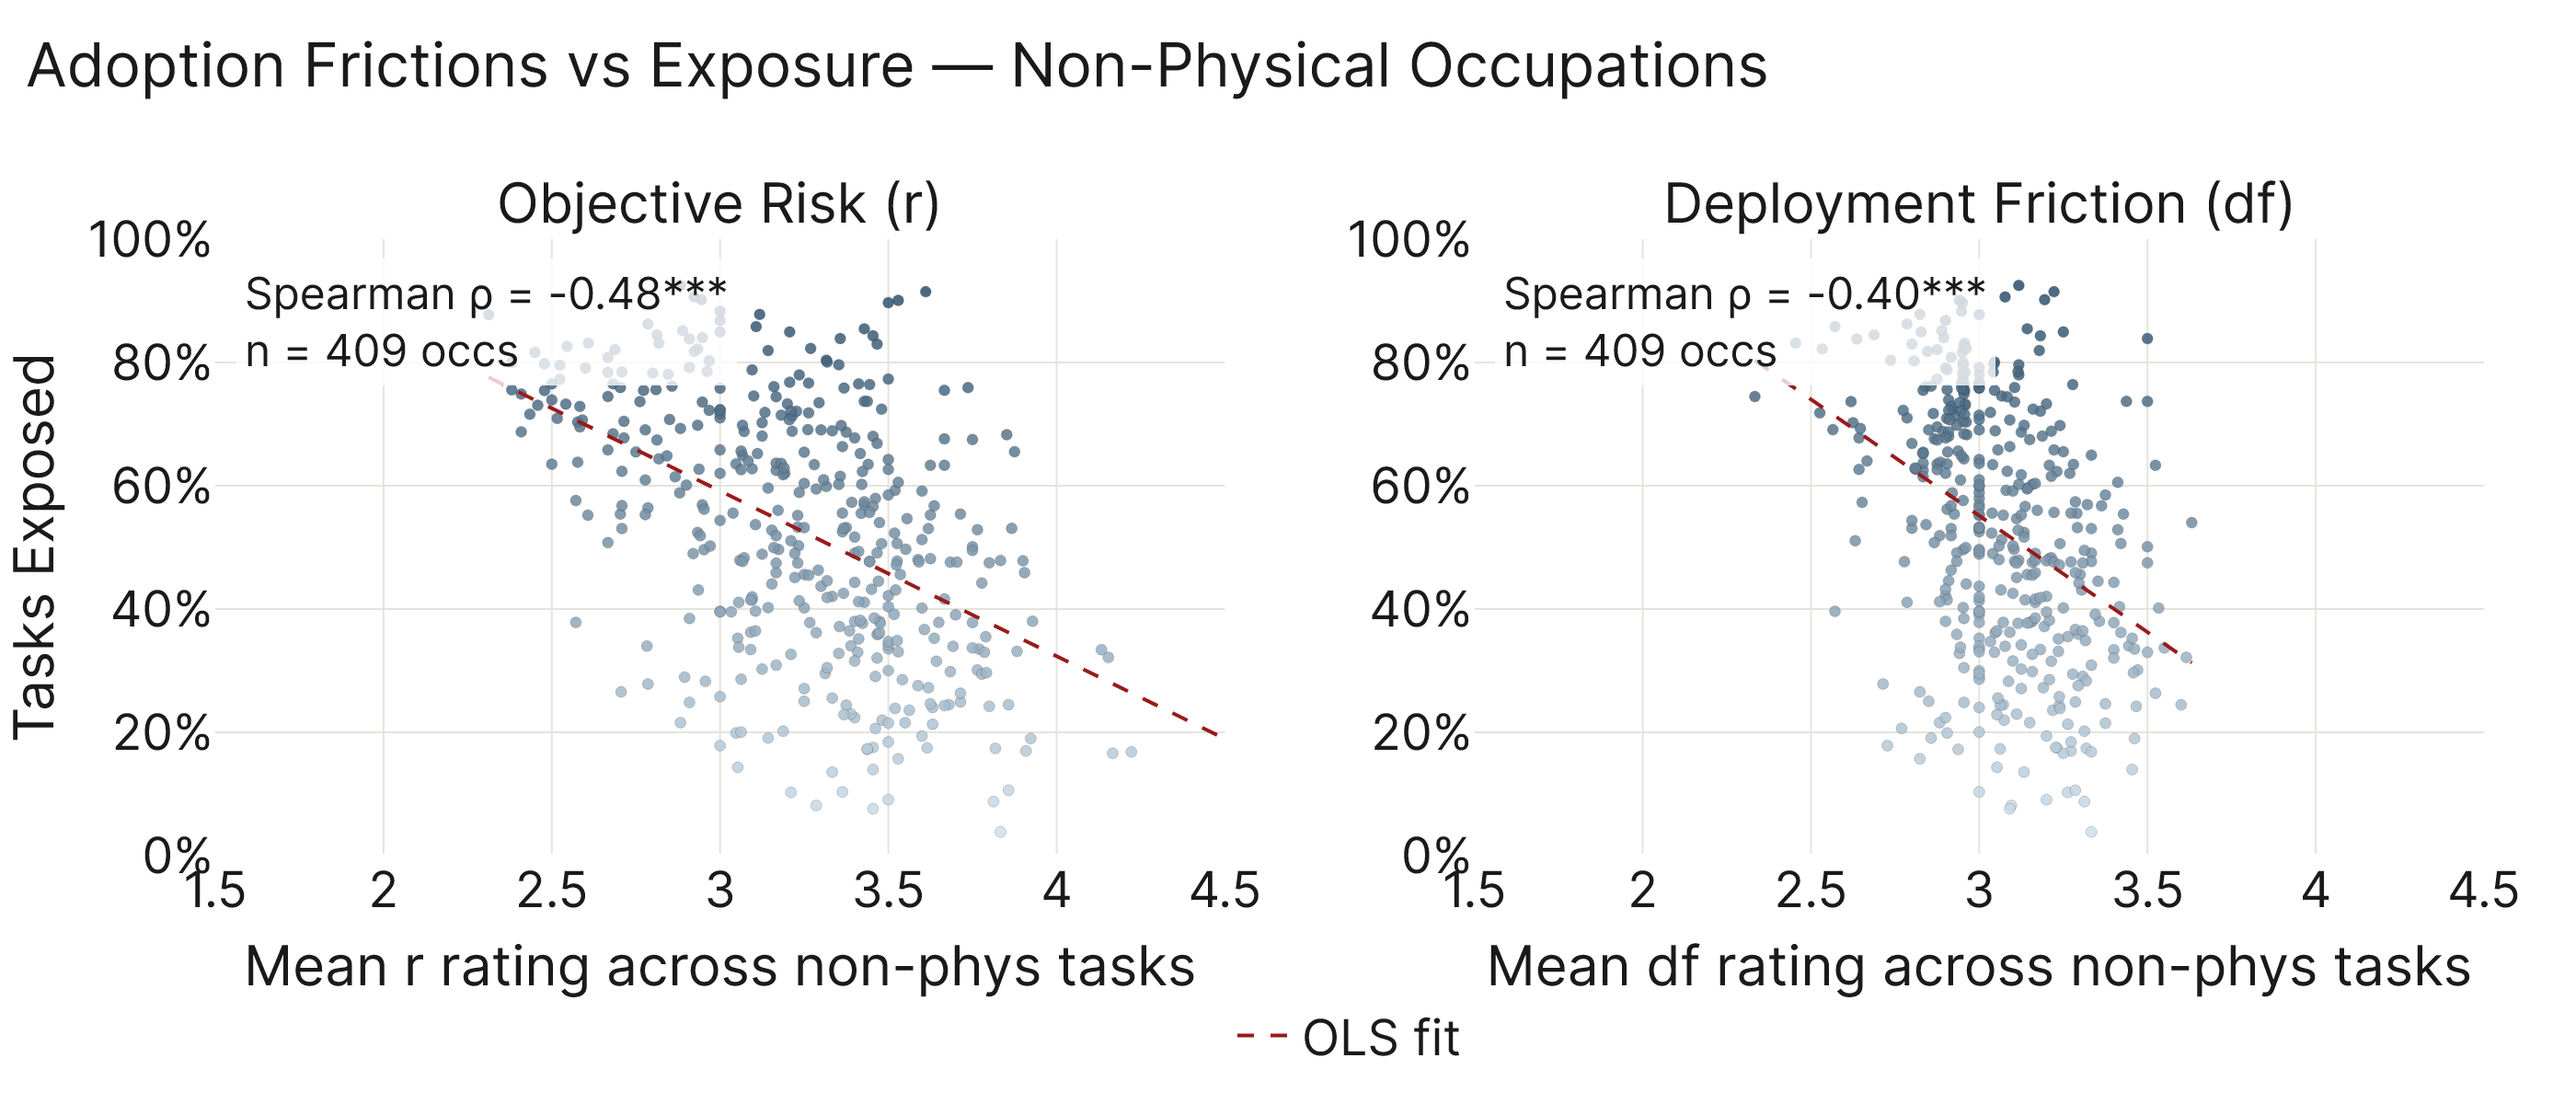
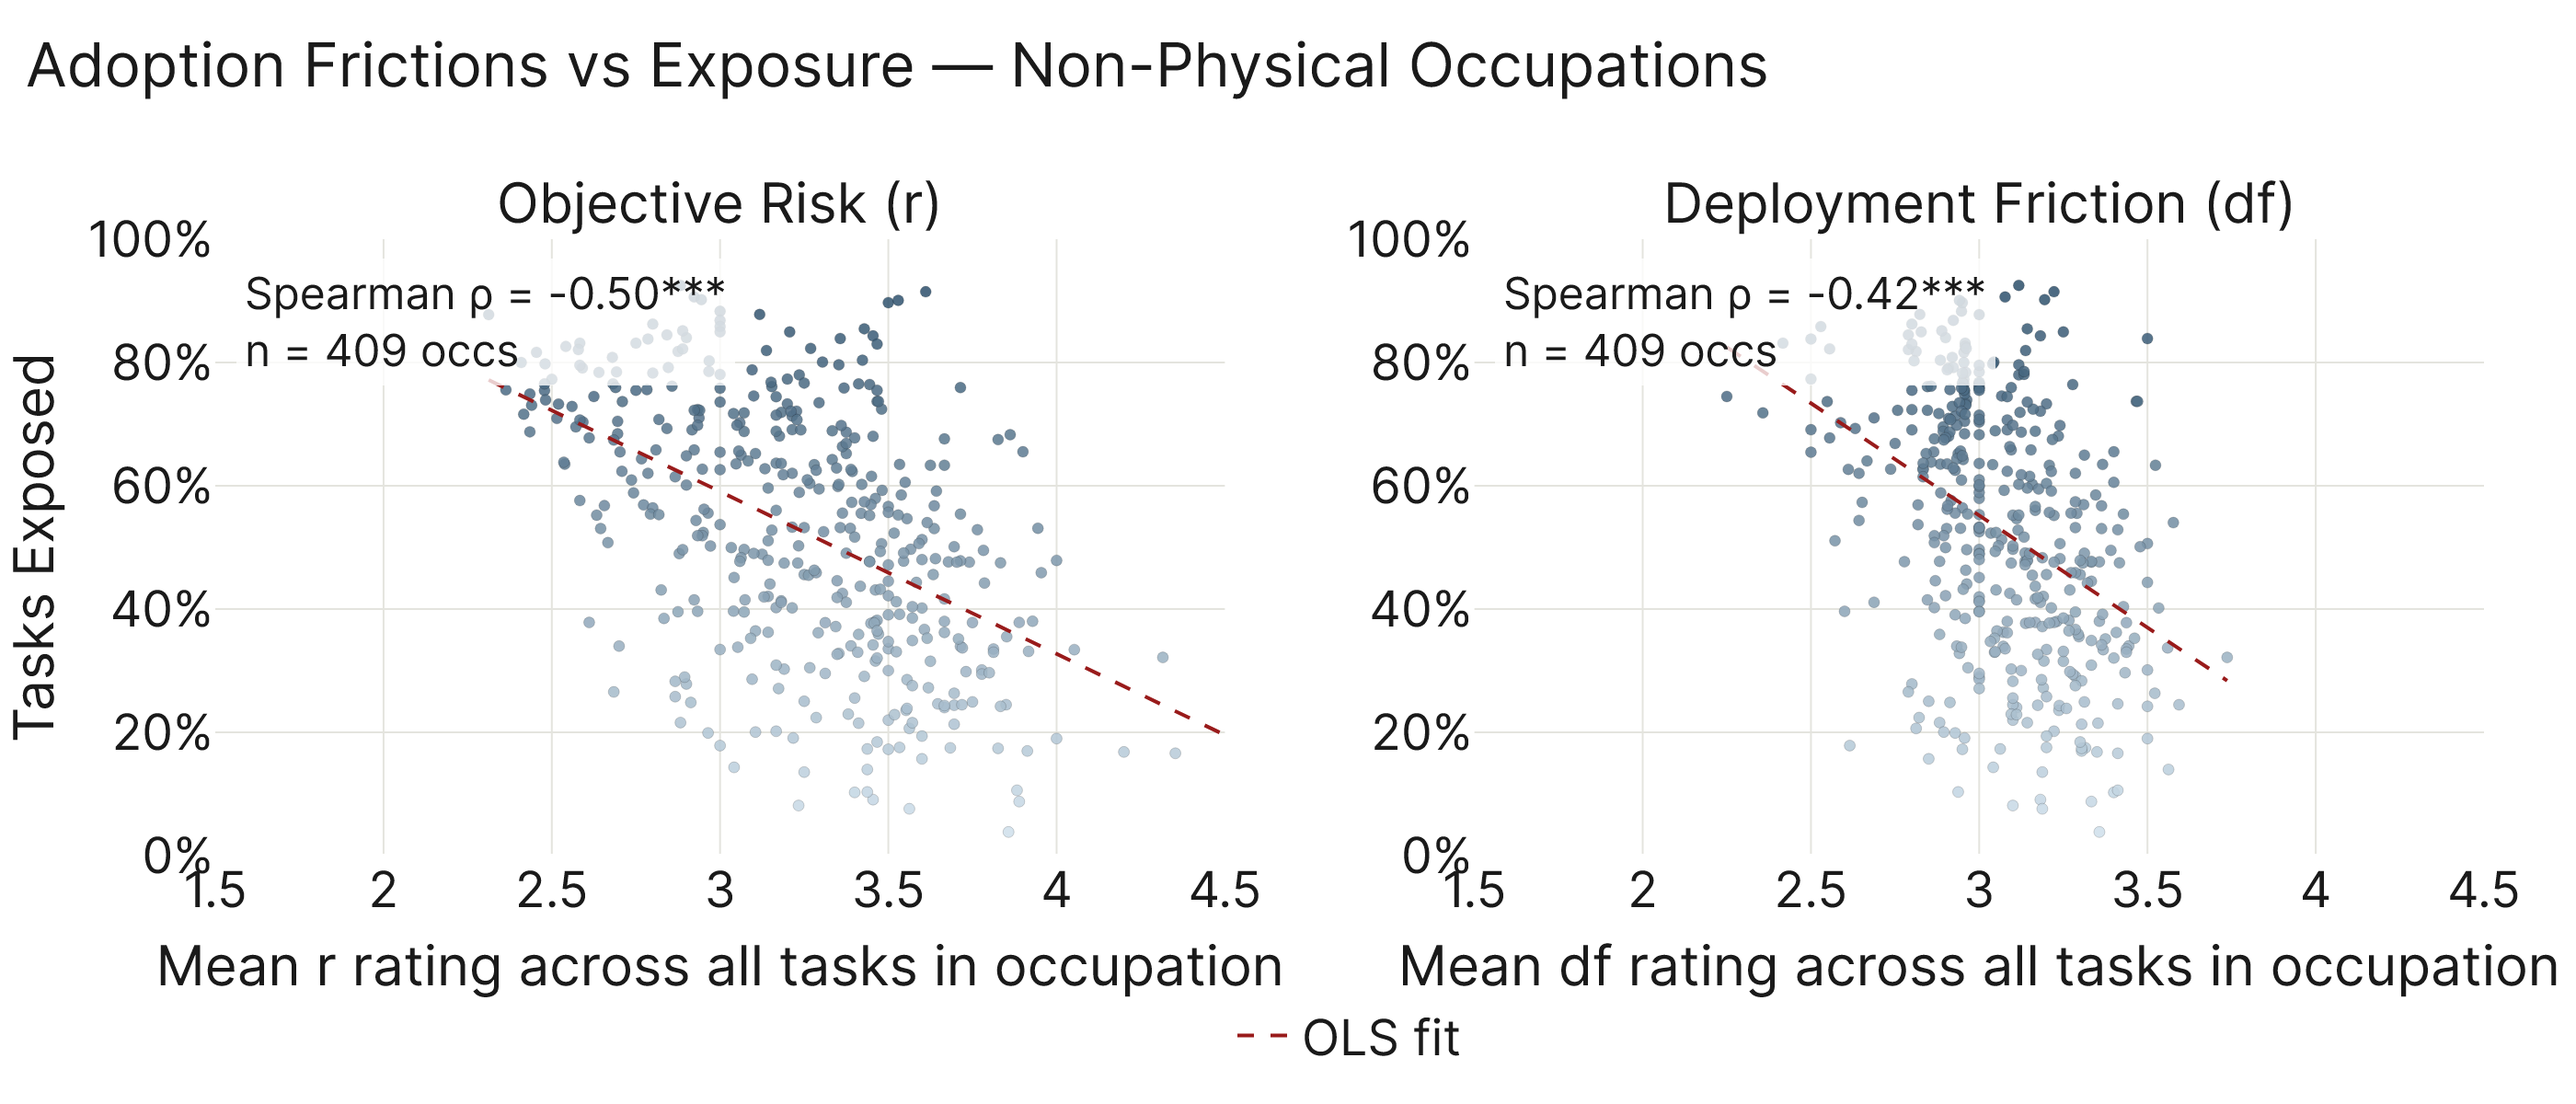
appendix: drop task-level phys filter in adoption_friction_scatter
The non-physical restriction already lives at the occupation level
(pct_physical < 33%). Filtering tasks too was a redundant belt-and-
suspenders. Property means are now taken across all tasks of each
non-phys occupation, matching how the y-axis exposure metric
aggregates within an occupation.

Signal is slightly stronger: rho = -0.50*** (r) and -0.42*** (df),
both n = 409, p < .001 (was -0.48 / -0.40).

X-axis title updated to "Mean r/df rating across all tasks in
occupation" to reflect the change.

diff --git a/analysis/paper/results/appendix/run.py b/analysis/paper/results/appendix/run.py
@@ -3413,14 +3413,16 @@ def build_intensity_drivers(results: Path, figures: Path,
 # whose task load is mostly non-physical (`pct_physical < 33%` — the
 # same cut Part 2 uses for its Non-Physical phys-mix tier). Inside that
 # slice, each occupation contributes one dot: x = unweighted mean
-# rating of the friction property over its non-physical tasks, y = %
-# tasks exposed under all_confirmed. Two panels — left for `r`, right
-# for `df`.
+# rating of the friction property across ALL of that occupation's
+# tasks, y = % tasks exposed under all_confirmed. Two panels — left
+# for `r`, right for `df`. The non-physical restriction lives at the
+# occupation level; no second filter at the task level since these
+# occupations are already >67% non-physical by construction.
 #
 # Why no weighting: weighting by freq×emp concentrates each occ's
 # property mean onto a few high-frequency tasks (often routine office
 # work with mid-range friction), washing the cross-occ variance out.
-# Unweighted preserves the cross-occ signal (ρ ≈ −0.48 for r and −0.41
+# Unweighted preserves the cross-occ signal (ρ ≈ −0.50 for r and −0.42
 # for df at occ level; the major-level rollup within non-phys shows
 # almost nothing — discrimination lives at occupation level here).
 # ─────────────────────────────────────────────────────────────────────────
@@ -3477,16 +3479,18 @@ def build_adoption_friction_scatter(results: Path, figures: Path) -> None:
                        "title_current"]
     )
 
-    # Per-occ unweighted mean of each friction property over the occ's
-    # non-physical tasks. Weighting concentrates the mean on a few
-    # high-frequency tasks and erases the cross-occ variance; keep
-    # unweighted.
-    nonphys_rows = props[~props["physical"].astype(bool)].copy()
+    # Per-occ unweighted mean of each friction property over ALL of the
+    # occupation's tasks. The non-physical restriction lives at the
+    # occupation level above (pct_physical < 33%); double-filtering at
+    # the task level adds nothing since these occupations are already
+    # >67% non-physical by construction. Weighting by freq×emp was
+    # tried and concentrates the mean on a few high-frequency tasks,
+    # erasing the cross-occ variance; keep unweighted.
     occ_means = (
-        nonphys_rows.groupby("title_current")
+        props.groupby("title_current")
         .agg(r=("r", "mean"),
              df=("df", "mean"),
-             n_nonphys_tasks=("r", "count"))
+             n_tasks=("r", "count"))
         .reset_index()
     )
 
@@ -3558,7 +3562,7 @@ def build_adoption_friction_scatter(results: Path, figures: Path) -> None:
                 customdata=plot_df["title_current"],
                 hovertemplate=(
                     "<b>%{customdata}</b><br>"
-                    f"mean {code} (non-phys tasks): %{{x:.2f}}<br>"
+                    f"mean {code} (all tasks): %{{x:.2f}}<br>"
                     "% tasks exposed: %{y:.1f}%<extra></extra>"
                 ),
                 showlegend=False,
@@ -3598,7 +3602,7 @@ def build_adoption_friction_scatter(results: Path, figures: Path) -> None:
     for col_idx, (code, _) in enumerate(ADOPTION_FRICTION_PROPS, start=1):
         fig.update_xaxes(
             title=dict(
-                text=f"Mean {code} rating across non-phys tasks",
+                text=f"Mean {code} rating across all tasks in occupation",
                 font=dict(size=px["axis_title"], family=FONT_FAMILY),
             ),
             range=[1.5, 4.5], dtick=0.5,

diff --git a/analysis/paper/results/appendix/README.md b/analysis/paper/results/appendix/README.md
@@ -15,7 +15,7 @@ Ordered to match the paper's chart flow — correlation, aggregate economy, tren
 - **state_clusters_each_ranked** — companion to Part 3's `state_clusters_map`. Two-panel ranked bar chart with each panel sorted independently: left panel sorts the 51 states by % workforce exposed descending, right panel sorts by % in High AI Exp & <0 Emp Proj occupations descending. Cluster colors (Ward labels from `deepdive_state_clusters.compute_clusters()`) stay consistent across panels — a state's color is the same in both, so the reader can compare its left rank vs. right rank visually. Knowledge-economy states (mid blue) top the left panel but sit near the bottom of the right; the high-vulnerability cluster (dark blue) dominates the top of the right panel and spreads through the middle of the left.
 - **underadoption_gap** — per-major underadoption relative to potential as informed by task exposure. `raw_gap = pct_tasks_affected / ratio_full_pct` (Part 3 intensity model's full-eco share of AI usage), then anchored on Office and Administrative Support so values read as a clean multiple: `gap_ratio = raw_gap / raw_gap[Office and Admin]`. Office sits at x=1 with a dashed median line; majors above 1 are more underadopted than the anchor, below 1 less. Color encodes `pct_tasks_affected` with the same gradient legend as `intensity_anchor_fulleco`. Reads as the companion to that chart — same anchor, same median framing. **Both sides of the gap ratio use `AEI Both 2025 2026-02-12` (AEI-only, eco_2025-rebased, no Microsoft) — see Config below.**
 - **intensity_drivers_{occ,task}_{comp_math,arts_design_ent,life_phys_soc_sci}** — six within-major decompositions of Part 3's `intensity_anchor_fulleco` for the three high-lift majors (Computer/Mathematical, Arts/Design/Entertainment, Life/Phys/Sci). Per occ or task: `lift = (Σ debiased adj_pct / Σ freq×emp) ÷ within-major median ratio`. Bars are top-10 by lift, sorted descending. Color: `pct_tasks_affected` on occ charts (mirrors main body), `auto_aug_mean` on task charts. Outside text on each bar shows `lift× (raw pct)` where raw pct is the un-debiased `pct_normalized` sum. Task charts use the original task statement (with case + punctuation), not `task_normalized`. Median annotation only on occ charts (task charts' long wrapped labels and tight title spacing leave no room above the plot). **Uses `AEI Both 2025 2026-02-12` (no Microsoft) — see Config below.**
-- **adoption_friction_scatter** — two-panel occupation-level scatter testing the Section 3 adoption-layer prediction that risk (`r`) and deployment friction (`df`) discriminate exposure once capability is roughly held constant. Restricted to the ~409 occupations whose unique-task share of physical tasks is `< 33%` (Part 2's Non-Physical bucket); one dot per occupation. X-axis is the unweighted mean of the friction property across that occupation's non-physical tasks (from `data/final_eco_2025_with_task_properties.csv`, the same 12-property file `audit_task_properties` uses); y-axis is % Tasks Exposed under `all_confirmed`. Dot color mirrors the y value (light → dark blue ramp). Dashed OLS fit plus a Spearman ρ inset per panel. Headline: ρ = −0.48*** for `r`, −0.40*** for `df`, both n = 409, p &lt; .001. Notes: freq×emp weighting was tried and washes the cross-occ variance out; major-level rollups within non-phys give ρ ≈ 0 — the property discrimination lives at occupation level here.
+- **adoption_friction_scatter** — two-panel occupation-level scatter testing the Section 3 adoption-layer prediction that risk (`r`) and deployment friction (`df`) discriminate exposure once capability is roughly held constant. Restricted to the 409 occupations whose unique-task share of physical tasks is `< 33%` (Part 2's Non-Physical bucket); one dot per occupation. X-axis is the unweighted mean of the friction property across **all** of that occupation's tasks (from `data/final_eco_2025_with_task_properties.csv`, the same 12-property file `audit_task_properties` uses) — the non-physical restriction lives at the occupation level only, so no double-filter at task level. Y-axis is % Tasks Exposed under `all_confirmed`. Dot color mirrors y (light → dark blue ramp). Dashed OLS fit with a Spearman ρ inset per panel. Headline: ρ = −0.50*** for `r`, −0.42*** for `df`, both n = 409, p &lt; .001. Notes: freq×emp weighting was tried and washes the cross-occ variance out; major-level rollups within non-phys give ρ ≈ 0 — the property discrimination lives at occupation level here.
 
 ## Config
 
